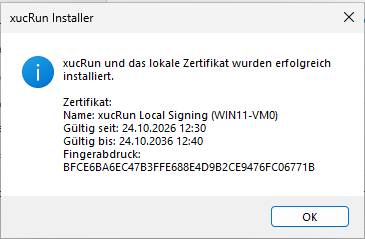
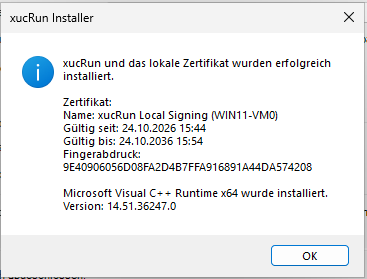
Improve approval localization and screenshots

Changed region(s): [[0.0603, 0.1757, 0.9041, 0.7615], [0.0, 0.0, 1.0, 1.0]]

diff --git a/xucRunApproval/main.cpp b/xucRunApproval/main.cpp
@@ -636,14 +636,19 @@ namespace
 		config.cbSize = sizeof(config);
 		config.dwFlags = TDF_ALLOW_DIALOG_CANCELLATION | TDF_SIZE_TO_CONTENT |
 			TDF_CALLBACK_TIMER;
-		config.dwCommonButtons = TDCBF_CANCEL_BUTTON;
 		const std::wstring title = WindowTitle();
 		config.pszWindowTitle = title.c_str();
 		config.pszMainIcon = TD_SHIELD_ICON;
 		config.pszMainInstruction = instruction.c_str();
 		config.pszContent = content.c_str();
-		config.cButtons = buttonCount;
-		config.pButtons = buttons;
+		std::vector<TASKDIALOG_BUTTON> localizedButtons;
+		localizedButtons.reserve(static_cast<std::size_t>(buttonCount) + 1);
+		for (UINT index = 0; index < buttonCount; index++)
+			localizedButtons.push_back(buttons[index]);
+		localizedButtons.push_back(
+			{ IDCANCEL, Text(L"Abbrechen", L"Cancel") });
+		config.cButtons = static_cast<UINT>(localizedButtons.size());
+		config.pButtons = localizedButtons.data();
 		config.nDefaultButton = IDCANCEL;
 		const std::wstring footer = ChoiceFooter(authenticityMarker, clientName,
 			xucrun::broker::ApprovalDialogTimeoutMilliseconds / 1000);
